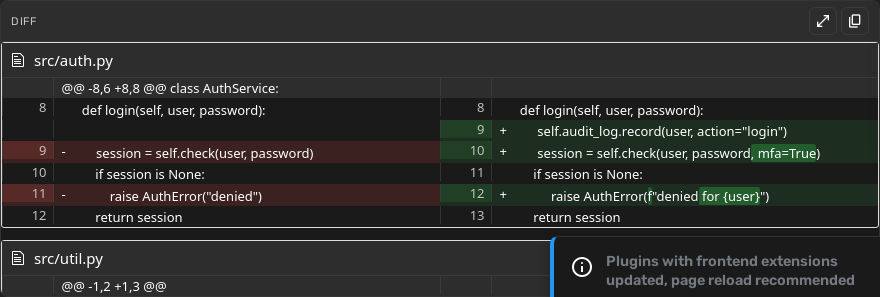
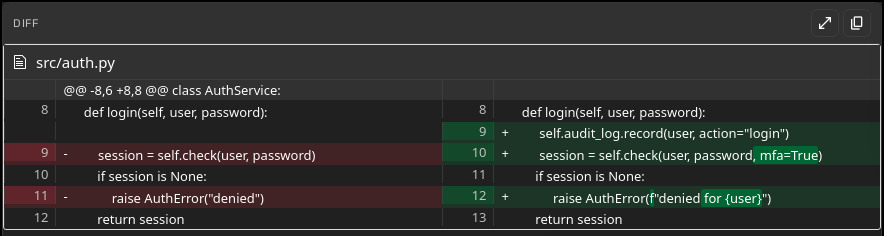
chore: root-layout restructure for open-source readiness (#29)
* chore: move plugin source to repo root (root layout)

* chore: point config, Makefile and tests at root layout

* ci: add push trigger to plugin-e2e for badge status

* chore: bump devkit submodule to v2.2.0

* docs: fix old-structure path references

* docs: polish README (section logos, centered shots, simpler diagram)

* docs: add architecture and inline diff images

Changed region(s): [[0.0, 0.0, 1.0, 1.0]]

diff --git a/tests/conftest.py b/tests/conftest.py
@@ -5,20 +5,20 @@ assertions need.
 """
 
 import os
+import sys
 from pathlib import Path
 
 import pytest
 
+# Root layout: the repo root IS the plugin dir — stop Python from littering it
+# with __pycache__, which the static validator flags.
+sys.dont_write_bytecode = True
+
 
 @pytest.fixture(scope="session")
 def plugin_dir() -> Path:
-    """Path to this plugin's source directory (canonical devkit layout)."""
-    return (
-        Path(__file__).resolve().parent.parent
-        / "usr"
-        / "plugins"
-        / "diff_visualizer"
-    )
+    """Path to this plugin's source directory (root layout: the repo root)."""
+    return Path(__file__).resolve().parent.parent
 
 
 @pytest.fixture(scope="session")
@@ -27,12 +27,17 @@ def a0_root() -> Path | None:
 
     The testkit validates webui surface names against A0's real surface list,
     which requires the A0 source. Resolution order: ``$A0_ROOT``, then the
-    conventional ``/a0`` install path. Returns ``None`` if neither is present
-    so surface-validation tests can skip cleanly in a bare CI without A0.
+    devkit submodule's nested ``tests/_testkit/.agent-zero`` clone (present
+    after ``git submodule update --init --recursive``), then the conventional
+    ``/a0`` install path. Returns ``None`` if none is present so
+    surface-validation tests can skip cleanly in a bare CI without A0.
     """
     env = os.environ.get("A0_ROOT")
     if env and (Path(env) / "agent.py").is_file():
         return Path(env)
+    vendored = Path(__file__).resolve().parent / "_testkit" / ".agent-zero"
+    if (vendored / "agent.py").is_file():
+        return vendored
     default = Path("/a0")
     if (default / "agent.py").is_file():
         return default

diff --git a/tests/test_publish_nudge.py b/tests/test_publish_nudge.py
@@ -14,7 +14,7 @@ import types
 
 _HOOK = (
     pathlib.Path(__file__).resolve().parents[1]
-    / "usr" / "plugins" / "diff_visualizer" / "extensions" / "python" / "_functions" / "helpers"
+    / "extensions" / "python" / "_functions" / "helpers"
     / "prompt_fragments" / "get_prompt_fragments" / "end" / "_50_publish_diff_nudge.py"
 )
 

diff --git a/README.md b/README.md
@@ -15,52 +15,41 @@ whenever it proposes edits, shows uncommitted changes, or compares before/after.
 Reviewing a proposed change in prose is slow; reviewing it as a rendered diff is
 instant. That's the whole plugin.
 
-## What it looks like
+## 📸 What it looks like
 
 Inline render in chat (side-by-side, per-file):
 
-![Inline visual diff](docs/diff-inline.png)
+<p align="center">
+  <img src="docs/diff-inline.png" alt="Inline visual diff — side-by-side render inside the chat column">
+</p>
 
 Maximized fullscreen review (Esc / backdrop / ✕ to close):
 
-![Maximized diff overlay](docs/diff-maximized.png)
+<p align="center">
+  <img src="docs/diff-maximized.png" alt="Maximized diff overlay — fullscreen review of the same diff">
+</p>
 
-## Features
+## ✨ Features
 
-| Feature | Detail |
-|---|---|
-| Auto-render | Any ` ```diff ` fence in chat becomes a visual diff (MutationObserver, debounced) |
-| Side-by-side view | diff2html `side-by-side` output, line-matched |
-| Multi-file fences | One fence containing several `diff --git` sections renders per-file |
-| Maximize | Fullscreen overlay re-render at larger type; single-overlay invariant |
-| Copy raw source | Copies the original diff text (never the rendered HTML) |
+| Feature           | Detail                                                                                                   |
+| ----------------- | -------------------------------------------------------------------------------------------------------- |
+| Auto-render       | Any ` ```diff ` fence in chat becomes a visual diff (MutationObserver, debounced)                        |
+| Side-by-side view | diff2html `side-by-side` output, line-matched                                                            |
+| Multi-file fences | One fence containing several `diff --git` sections renders per-file                                      |
+| Maximize          | Fullscreen overlay re-render at larger type; single-overlay invariant                                    |
+| Copy raw source   | Copies the original diff text (never the rendered HTML)                                                  |
 | Graceful fallback | CDN unreachable / malformed diff / empty block → the raw code block stays readable, nothing is swallowed |
-| Theme-aware | Consumes A0's `--color-*` custom properties with sane fallbacks |
-| Agent skill | `skills/diff/SKILL.md` — unified-diff anatomy, capture recipes, pitfalls |
-| Behaviour nudge | System-prompt extension steering the agent toward diff output |
+| Theme-aware       | Consumes A0's `--color-*` custom properties with sane fallbacks                                          |
+| Agent skill       | `skills/diff/SKILL.md` — unified-diff anatomy, capture recipes, pitfalls                                 |
+| Behaviour nudge   | System-prompt extension steering the agent toward diff output                                            |
 
-## Architecture
+## ⚙ Architecture
 
-```mermaid
-flowchart TD
-    subgraph Agent side
-        N[system_prompt extension\n_15_diff_nudge.py] -->|nudges| A[Agent emits ```diff fence]
-        P[prompt_fragments publisher\n_50_publish_diff_nudge.py] -->|enumerable nudge| H[non-native harnesses]
-        S[skills/diff/SKILL.md] -->|syntax reference| A
-    end
-    subgraph Chat UI - sidebar-end extension
-        A -->|markdown renders| C[pre > code.language-diff]
-        O[MutationObserver + 150ms debounce] --> C
-        C --> G{parsed ≥1 file?\nd2h-file-wrapper}
-        G -->|yes| R[.diff-visualizer-container\nside-by-side diff2html render]
-        G -->|no / CDN down| F[raw block left readable]
-        R --> M[maximize overlay]
-        R --> Y[copy raw source]
-    end
-    D[(diff2html 3.4.51\njsDelivr CDN, lazy + memoised)] --> R
-```
+<p align="center">
+  <img src="docs/architecture.png" alt="Architecture — How it works">
+</p>
 
-## Usage
+## 💬 Usage
 
 Every behaviour below is covered by a BDD scenario in [`tests/e2e/features/`](tests/e2e/features/),
 and [`docs/BEHAVIOUR.md`](docs/BEHAVIOUR.md) shows each one as a screenshot captured from a passing
@@ -98,10 +87,10 @@ Both are asserted scenarios rather than intentions.
 
 ---
 
-## Install
+## 📦 Install
 
-**Plugin Hub (recommended):** open *Settings → Plugins* in Agent Zero, find
-**DiffVisualizer**, click *Install*.
+**Plugin Hub (recommended):** open _Settings → Plugins_ in Agent Zero, find
+**DiffVisualizer**, click _Install_.
 
 **Manual zip:**
 
@@ -114,7 +103,7 @@ make package                       # → dist/diff_visualizer.zip
 
 Enable the plugin after installing (it is store-gated, not always-enabled).
 
-## Configuration
+## 🔧 Configuration
 
 None. The plugin has no configurable options, no secrets, and no environment
 variables (`default_config.yaml` is intentionally empty; `meta.yaml` declares
@@ -124,34 +113,35 @@ variables (`default_config.yaml` is intentionally empty; `meta.yaml` declares
 > CDN is unreachable (offline / strict CSP), diff blocks simply stay as readable plain
 > code — no crash, no data loss.
 
-## Development
+## 🛠 Development
 
-Repo layout follows the org-canonical devkit standard: plugin source under
-`usr/plugins/diff_visualizer/`, devkit vendored at `tests/_testkit/` (private submodule).
+Repo layout follows the org-canonical devkit standard: the repo root IS the plugin
+(root layout — manifests, `extensions/`, `skills/`, `webui/` at top level), devkit
+vendored at `tests/_testkit/` (public submodule).
 
 ```bash
 git submodule update --init --recursive   # devkit + nested .agent-zero
 make verify                               # Tier-1 static BDD gates (bdd-lint)
 make package                              # build dist/diff_visualizer.zip
-/opt/venv/bin/python -m pytest tests/ -v  # L1 component suite (7 tests)
+python -m pytest tests/ -v  # L1 component suite (10 tests)
 make e2e                                  # full BDD e2e in the nested-A0 harness
 ```
 
 The e2e harness boots a **nested Agent Zero** via rootless podman, installs the built
-zip, runs a seam-off *red-proof* (the suite must fail without the plugin), then runs the
+zip, runs a seam-off _red-proof_ (the suite must fail without the plugin), then runs the
 BDD features in `tests/e2e/features/` (`playwright-bdd`). Specs assert **end state**
 (rendered containers, overlay presence/absence), never transient markers.
 
 Behaviour truth lives in `docs/spec/behaviour-spec.md` (BEH-1…9) — feature scenarios
 trace to those IDs.
 
-## Tests
+## 🧪 Tests
 
-| Layer | Where | What |
-|---|---|---|
-| L1 component | `tests/test_diff_visualizer.py`, `tests/test_smoke.py`, `tests/test_publish_nudge.py` | surface validity, stray folders, dead hooks, manifest sanity, nudge publisher |
-| L3 BDD e2e | `tests/e2e/features/*.feature` + `tests/e2e/steps/` | render, toolbar, maximize, 3 close paths, copy, multi-file, malformed fallback, non-diff negative |
+| Layer        | Where                                                                                 | What                                                                                              |
+| ------------ | ------------------------------------------------------------------------------------- | ------------------------------------------------------------------------------------------------- |
+| L1 component | `tests/test_diff_visualizer.py`, `tests/test_smoke.py`, `tests/test_publish_nudge.py` | surface validity, stray folders, dead hooks, manifest sanity, nudge publisher                     |
+| L3 BDD e2e   | `tests/e2e/features/*.feature` + `tests/e2e/steps/`                                   | render, toolbar, maximize, 3 close paths, copy, multi-file, malformed fallback, non-diff negative |
 
-## License
+## ⚖ License
 
 Apache-2.0 — see [LICENSE](LICENSE).

diff --git a/CONTRIBUTING.md b/CONTRIBUTING.md
@@ -9,10 +9,10 @@ Thanks for helping improve visual diffs in Agent Zero chat.
   `docs/spec/behaviour-spec.md` (BEH-n) and lands with a traceable `.feature` scenario in
   `tests/e2e/features/` plus step definitions in `tests/e2e/steps/`.
 - **Red-first**: write the failing test before the fix. The e2e harness runs a seam-off
-  *red-proof* — scenarios that pass without the plugin installed fail the gate.
+  _red-proof_ — scenarios that pass without the plugin installed fail the gate.
 - **End-state assertions only** in e2e specs (rendered containers, overlay counts) —
   never transient markers like `data-diff-processed`.
-- **Versioning**: bump `version` in BOTH `usr/plugins/diff_visualizer/plugin.yaml` and
+- **Versioning**: bump `version` in BOTH `plugin.yaml` and
   `meta.yaml` (CI checks they match) and in `pyproject.toml`.
 
 ## Dev setup
@@ -20,24 +20,24 @@ Thanks for helping improve visual diffs in Agent Zero chat.
 ```bash
 git clone https://github.com/agent-zero-plugins/agent-zero-plugin-diff-visualizer
 cd agent-zero-plugin-diff-visualizer
-git submodule update --init --recursive   # devkit (private) + nested .agent-zero
+git submodule update --init --recursive   # devkit + nested .agent-zero
 ```
 
 ## Verify loop (fastest first)
 
-| Step | Command | Gate |
-|---|---|---|
-| 1 | `make verify` | bdd-lint: feature-purity, honesty, traceability |
-| 2 | `/opt/venv/bin/python -m pytest tests/ -v` | L1 component suite, 0 skipped |
-| 3 | `make package` | builds `dist/diff_visualizer.zip` |
-| 4 | `make e2e` | seam-off red-proof + full BDD run in the nested-A0 harness |
+| Step | Command                                    | Gate                                                       |
+| ---- | ------------------------------------------ | ---------------------------------------------------------- |
+| 1    | `make verify`                              | bdd-lint: feature-purity, honesty, traceability            |
+| 2    | `/opt/venv/bin/python -m pytest tests/ -v` | L1 component suite, 0 skipped                              |
+| 3    | `make package`                             | builds `dist/diff_visualizer.zip`                          |
+| 4    | `make e2e`                                 | seam-off red-proof + full BDD run in the nested-A0 harness |
 
 A pre-commit hook (installed by the devkit adopter) runs bdd-lint on every commit.
 
 ## Renderer changes
 
 The entire UI lives in one file:
-`usr/plugins/diff_visualizer/extensions/webui/sidebar-end/diff-renderer.html`.
+`extensions/webui/sidebar-end/diff-renderer.html`.
 Keep the graceful-fallback invariants: never swap a readable block unless diff2html
 produced at least one parsed file (`d2h-file-wrapper`), and always clear the
 `data-diff-processed` marker on failure so the block stays retry-able.

diff --git a/docs/marketplace-draft.md b/docs/marketplace-draft.md
@@ -34,7 +34,7 @@ screenshots:
 
 ## Thumbnail
 
-Copy `usr/plugins/diff_visualizer/webui/thumbnail.png` (256×256 square, ~1.5 KB — well
+Copy `webui/thumbnail.png` (256×256 square, ~1.5 KB — well
 under the 20 KB limit) into the index folder as `thumbnail.png`.
 
 ## Pre-submission checklist (flip-time)
